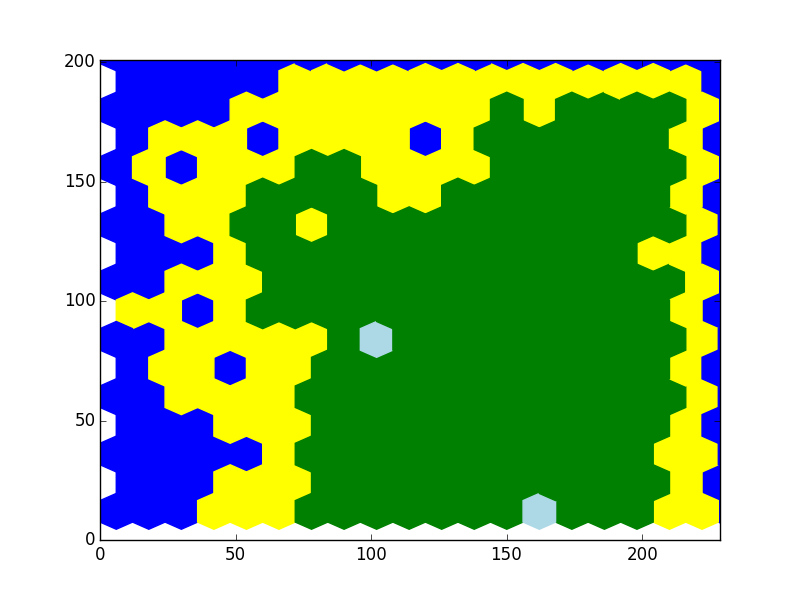
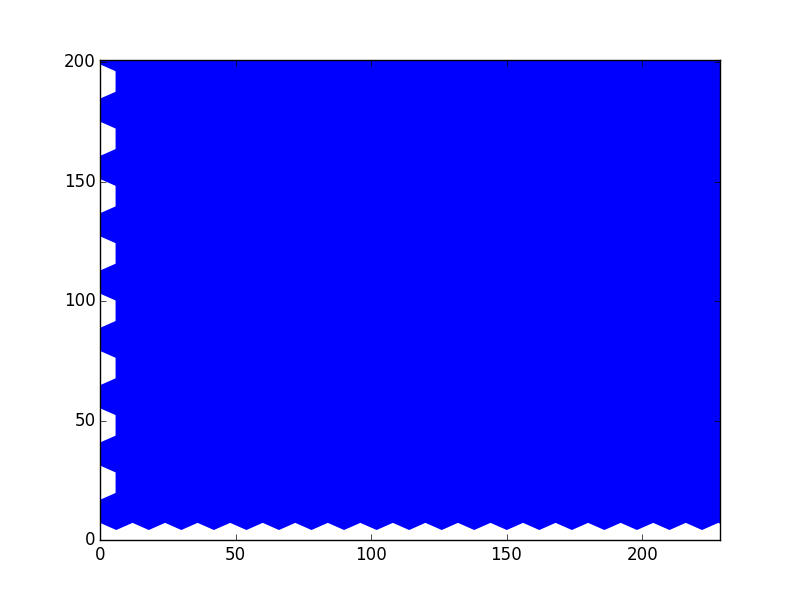
Made tiles hexagon instead of polygon

diff --git a/mapgenerator.py b/mapgenerator.py
@@ -9,14 +9,21 @@ def random_numbers():  # generates the input points for the voronoi diagram
     numbers = []
     for x in range(0, 22):  # first, it fills the area with points in a grid.
         for y in range(0, 22):
-            ysize = x * 12  # + np.random.randint(-6, 6)
+            ysize = x * 11  # + np.random.randint(-6, 6)
             if x % 2 == 0:  # every even row is moved to create hexagon-like points
-                xsize = y * 12  # + np.random.randint(-6, 6)  # points are slightly moved around to create quasi-randomness
+                xsize = y * 11  # + np.random.randint(-6, 6)  # points are slightly moved around to create quasi-randomness
             else:
-                xsize = y * 12 + 6  # + np.random.randint(-6, 6)
+                xsize = y * 11 + 5.5  # + np.random.randint(-6, 6)
             pair = [xsize, ysize]
             numbers.append(pair)
     return numbers
+
+
+def not_in_shared_points(shared_points, coord):
+    for item in shared_points:
+        if item[0] == coord[0] and item[1] == coord[1]:
+            return False
+    return True
 
 
 class VoronoiPlot:
@@ -29,52 +36,43 @@ class VoronoiPlot:
         self.vor = Voronoi(self.coords)
         voronoi_plot_2d(self.vor)
 
-        # set background to lightblue, to make te border sea.
-        ax = plt.gca()
-        ax.set_axis_bgcolor('blue')
-
     def adjacent_tiles(self, polygon, regen=0):
+        shared_points = []
         shared_points_sea = 0
         shared_points_land = 0
         shared_points_beach = 0
         for tile in self.index:
             for i in tile[0]:
                 for j in polygon:
-                    if i[0] == j[0] and i[1] == j[1]:  # coordinates are the same
+                    if i[0] == j[0] and i[1] == j[1] and not_in_shared_points(shared_points,
+                                                                              i):  # coordinates are the same
+                        shared_points.append(i)
                         if tile[1] == 'sea' or tile[1] == 'border':
                             shared_points_sea += 1
                         elif tile[1] == 'land':
                             shared_points_land += 1
                         elif tile[1] == 'beach':
                             shared_points_beach += 1
-        print(u"shared with: land {0:d} | sea: {1:d} | beach: {2:d}".format(shared_points_land, shared_points_sea,
-                                                                            shared_points_beach))
-        if shared_points_sea == 0 and (shared_points_land or shared_points_beach):
-            if np.random.randint(0, 50) == 1:
-                print('lake')
-                return 'lake'
+        print(
+                u"shared with: land {0:d} | sea: {1:d} | beach: {2:d}".format(
+                        shared_points_land,
+                        shared_points_sea,
+                        shared_points_beach))
+
+        if shared_points_sea == 6 or (shared_points_beach == 0 and shared_points_land == 0):
+            if not regen and np.random.randint(0, 2):
+                print('is beach')
+                return 'beach'
             else:
-                print('land')
-                return 'land'
-        elif shared_points_sea:
-            if not regen and self.beach < 3:
-                if (shared_points_beach or shared_points_land) or np.random.randint(0, 160) == 1:
-                    self.beach += 1
-                    print('beach')
-                    return 'beach'
-                else:
-                    print('sea')
-                    return 'sea'
-            else:
-                if shared_points_beach or shared_points_land:
-                    print('beach')
-                    return 'beach'
-                else:
-                    print('sea')
-                    return 'sea'
-        else:
-            print('sea')
-            return 'sea'
+                print('is sea')
+                return 'sea'
+        if (shared_points_land == 6 or shared_points_beach == 6) and shared_points_sea == 0:
+            print('is land')
+            return 'land'
+        if shared_points_beach >= 1:
+            print('is beach')
+            return 'beach'
+
 
     @staticmethod
     def is_border(polygon):
@@ -93,8 +91,6 @@ class VoronoiPlot:
                 else:
                     self.index.append([polygon, 'border'])
         self.__regenerate()
-        self.__regenerate()
-        self.__regenerate()
         self.__color()
 
     def __regenerate(self):
@@ -106,18 +102,22 @@ class VoronoiPlot:
 
     def __color(self):
         # colors each tile according to the surface type
-        plt.figure(2)
-        plt.axis([0, 228.624, 0, 201])
-        for tile in self.index:
-            if tile[1] == 'border' or tile[1] == 'sea':
-                plt.fill(*zip(*tile[0]), color='blue')
-            if tile[1] == 'lake':
-                plt.fill(*zip(*tile[0]), color='lightblue')
-            elif tile[1] == 'beach':
-                plt.fill(*zip(*tile[0]), color='yellow')
-            elif tile[1] == 'land':
-                plt.fill(*zip(*tile[0]), color='green')
-        plt.savefig('without-lines.png')
+        # plt.figure(2)
+        # plt.axis([0, 228.624, 0, 201])
+        # for tile in self.index:
+        #    if tile[1] == 'border' or tile[1] == 'sea':
+        #        plt.fill(*zip(*tile[0]), color='blue')
+        #    if tile[1] == 'lake':
+        #        plt.fill(*zip(*tile[0]), color='lightblue')
+        #    elif tile[1] == 'beach':
+        #        plt.fill(*zip(*tile[0]), color='yellow')
+        #    elif tile[1] == 'land':
+        #        plt.fill(*zip(*tile[0]), color='green')
+        # plt.savefig('without-lines.png')
+
+        # set background to lightblue, to make te border sea.
+        # ax = plt.gca()
+        # ax.set_axis_bgcolor('blue')
 
         plt.figure(1)
         plt.axis([0, 228.624, 0, 201])
@@ -132,9 +132,13 @@ class VoronoiPlot:
                 plt.fill(*zip(*tile[0]), color='green')
         plt.savefig('with-lines.png')
 
+        # set background to lightblue, to make te border sea.
+        ax = plt.gca()
+        ax.set_axis_bgcolor('blue')
+
 
 if __name__ == '__main__':
-    plot = VoronoiPlot()
+    plot = VoronoiPlot(1337)
     plot.generate()
     plt.axis([0, 228.624, 0, 201])  # size is weird because it will be filled up by hexagons
     print(plot.beach)
